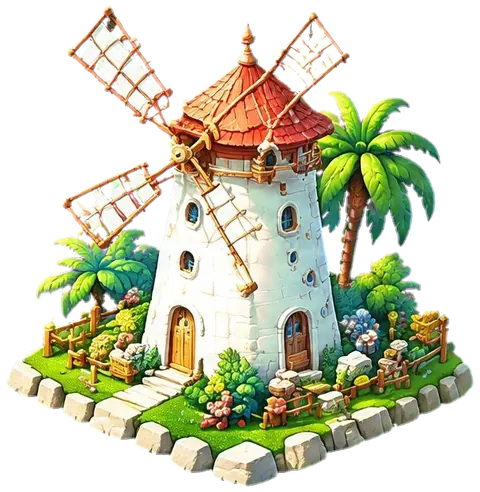
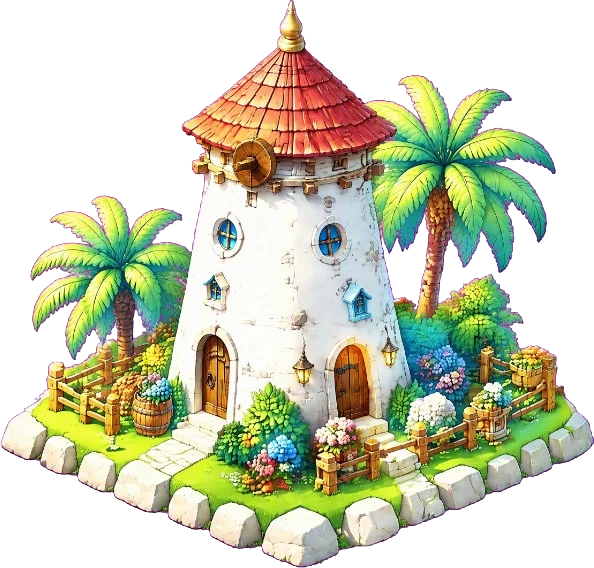
风车：换新风车房子素材，叶片单独一层按透视角度转动；重做夜间窗灯

diff --git a/index.html b/index.html
@@ -12,7 +12,7 @@
     /* 48px 宽的模糊占位图，底图下载完之前先显示岛的轮廓 */
[1 lines of base64/hex data omitted]
   </style>
-  <link rel="stylesheet" href="style.css?v=20261028202801" />
+  <link rel="stylesheet" href="style.css?v=20261029132402" />
 </head>
 <body>
   <div class="backdrop"></div>
@@ -30,6 +30,6 @@
     <button type="button" class="rotate-btn" id="rotateBtn" hidden></button>
   </div>
 
-  <script src="config.js?v=20261028202801"></script>
-  <script src="app.js?v=20261028202801"></script></body>
+  <script src="config.js?v=20261029132402"></script>
+  <script src="app.js?v=20261029132402"></script></body>
 </html>

diff --git a/config.js b/config.js
@@ -15,7 +15,10 @@ window.MAP_CONFIG = {
   sites: [
     { img: "assets/houses/house-1.webp", x: 160, y: 262, w: 112 },
     { name: "苹果ASO 🍎", url: "https://xiaobai-aso.github.io/", img: "assets/houses/house-2.webp", x: 285, y: 300, w: 112 },
-    { name: "玩游戏 🎮", url: "https://xiaobai-kart.github.io/", img: "assets/houses/house-3.webp", x: 400, y: 238, w: 106 },
+    { name: "玩游戏 🎮", url: "https://xiaobai-kart.github.io/", img: "assets/houses/house-3.webp", x: 400, y: 238, w: 106,
+      // 风车叶片：x / y 是轮轴在房子图里的位置（0~1），size 是叶片直径占房子宽度的比例，
+      // matrix 把正面画的叶片压成房子上的透视角度，spin 是转一圈的秒数
+      mill: { img: "assets/houses/mill-blades.webp", x: 0.428, y: 0.282, size: 0.6, matrix: [0.62, 0.36, 0, 1], spin: 10 } },
     { name: "搞钱吧 🤑", url: "https://xiaobai-shouxi.github.io/", img: "assets/houses/house-4.webp", x: 560, y: 248, w: 112 },
     { name: "小工具 🧰", url: "https://xiaobai-toolbox.github.io/", img: "assets/houses/house-5.webp", x: 735, y: 405, w: 112 },
     { img: "assets/houses/house-6.webp", x: 845, y: 300, w: 112 },

diff --git a/app.js b/app.js
@@ -203,6 +203,18 @@
     return a;
   }
 
+  // 风车叶片：正面画的叶片在平面里转，外层再用 matrix 压扁、斜切成房子上的透视角度
+  function millBlades(m) {
+    const layer = document.createElement("div");
+    layer.className = "house-mill";
+    const [a, b, c, d] = m.matrix;
+    layer.innerHTML = `<div class="mill-plane" style="left:${m.x * 100}%;top:${m.y * 100}%;width:${m.size * 100}%;
+      transform:translate(-50%,-50%) matrix(${a},${b},${c},${d},0,0)"><img alt="" draggable="false"
+      style="animation-duration:${m.spin}s" /></div>`;
+    lazySrc(layer.querySelector("img"), m.img);
+    return layer;
+  }
+
   cfg.sites.forEach((site) => {
     const linked = Boolean(site.name && site.url);
     const house = linked ? link("house", site) : document.createElement("div");
@@ -220,6 +232,7 @@
     img.alt = "";
     img.draggable = false;
     house.append(img);
+    if (site.mill) house.append(millBlades(site.mill));
     housesLayer.append(house);
     if (!linked) return;
 

diff --git a/style.css b/style.css
@@ -390,8 +390,35 @@ html.rotated .viewport {
   transform-origin: 50% 90%;
 }
 
-.house.hover .house-lit {
+.house.hover .house-lit,
+.house.hover .house-mill {
   transform: scale(1.12) translateY(-3px);
+}
+
+/* 风车叶片层：盖在亮灯窗户上面，跟房子一起缩放、一起变暗 */
+.house-mill {
+  position: absolute;
+  inset: 0;
+  z-index: 1;
+  pointer-events: none;
+  transition: transform 0.25s cubic-bezier(0.34, 1.56, 0.64, 1);
+  transform-origin: 50% 90%;
+}
+
+.mill-plane {
+  position: absolute;
+  aspect-ratio: 1;
+}
+
+.mill-plane img {
+  display: block;
+  width: 100%;
+  filter: brightness(var(--obj-b)) saturate(var(--obj-s)) drop-shadow(0 2px 2px rgba(0, 40, 60, 0.25));
+  animation: mill-spin 10s linear infinite;
+}
+
+@keyframes mill-spin {
+  to { transform: rotate(360deg); }
 }
 
 .labels {
@@ -908,6 +935,7 @@ html.rotated .viewport {
   .boat-inner img,
   .boat-wake,
   .ripple,
+  .mill-plane img,
   .wx-rays i {
     animation-play-state: paused;
   }
